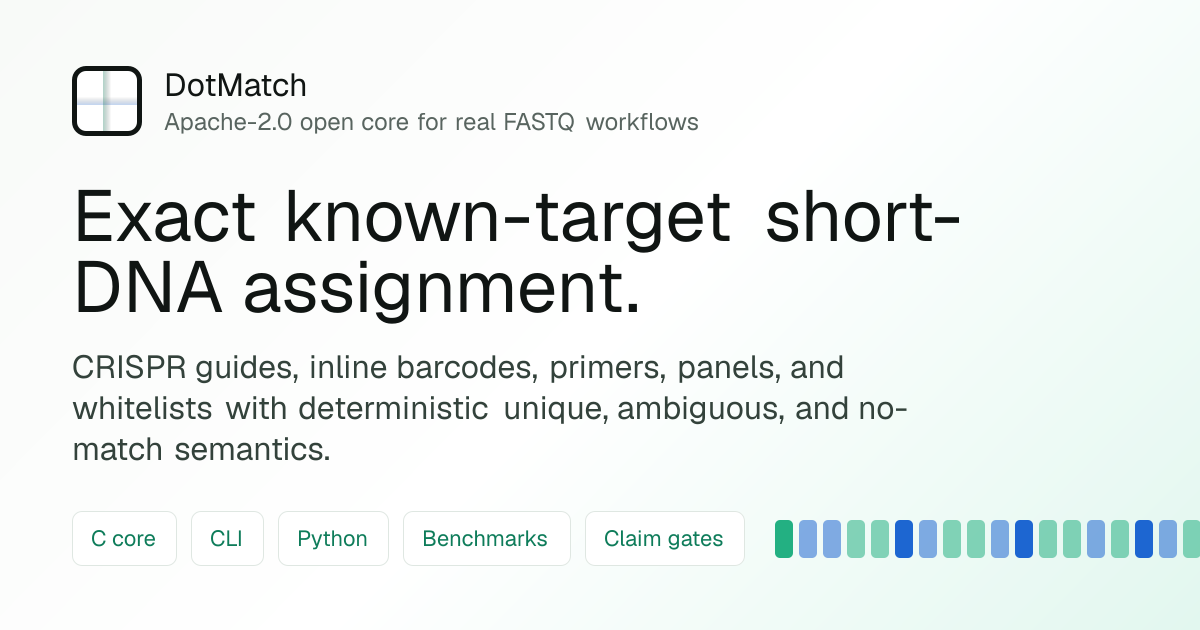
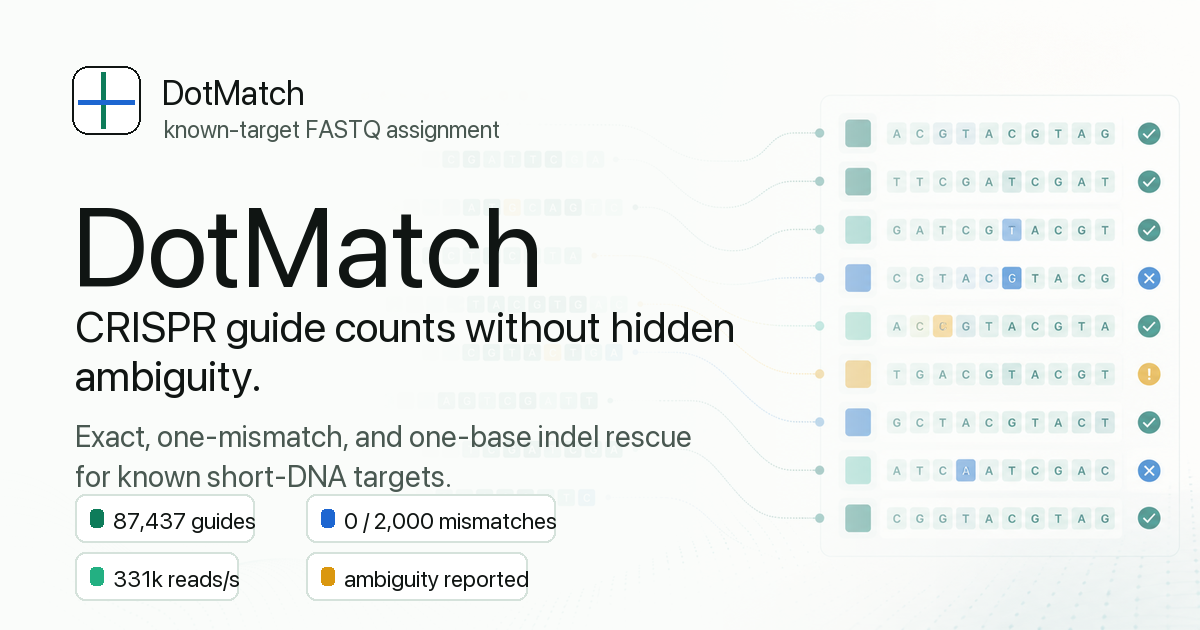
Improve Open Graph social cards

diff --git a/app/layout.tsx b/app/layout.tsx
@@ -4,12 +4,22 @@ import "./globals.css";
 const siteUrl = process.env.NEXT_PUBLIC_SITE_URL ?? "https://dnncha.github.io/dotmatch";
 const socialImageUrl = `${siteUrl}/dotmatch-og.png`;
 const twitterImageUrl = `${siteUrl}/dotmatch-twitter.png`;
+const socialImageAlt =
+  "DotMatch social preview showing CRISPR guide-count assignment into known DNA target rows";
 
 export const metadata: Metadata = {
   metadataBase: new URL(siteUrl),
-  title: "DotMatch - Exact Short-DNA Assignment",
+  applicationName: "DotMatch",
+  title: "DotMatch - Auditable CRISPR Guide Counting",
   description:
     "DotMatch turns known short-DNA FASTQs into CRISPR guide counts, barcode splits, and QC reports with explicit ambiguity handling.",
+  authors: [{ name: "DotMatch maintainers", url: "https://github.com/dnncha/dotmatch" }],
+  creator: "DotMatch maintainers",
+  publisher: "DotMatch",
+  category: "Bioinformatics software",
+  alternates: {
+    canonical: siteUrl
+  },
   keywords: [
     "bioinformatics",
     "computational biology",
@@ -20,23 +30,27 @@ export const metadata: Metadata = {
     "known-target assignment"
   ],
   openGraph: {
-    title: "DotMatch",
+    title: "DotMatch - Auditable CRISPR Guide Counting",
     description:
       "CRISPR guide counts, barcode splits, and QC reports for known short-DNA targets, with ambiguous reads reported instead of guessed.",
     type: "website",
+    siteName: "DotMatch",
+    locale: "en_US",
     url: siteUrl,
     images: [
       {
         url: socialImageUrl,
+        secureUrl: socialImageUrl,
         width: 1200,
         height: 630,
-        alt: "DotMatch exact known-target short-DNA assignment"
+        type: "image/png",
+        alt: socialImageAlt
       }
     ]
   },
   twitter: {
     card: "summary_large_image",
-    title: "DotMatch",
+    title: "DotMatch - Auditable CRISPR Guide Counting",
     description:
       "CRISPR guide counts, barcode splits, and QC reports for known short-DNA targets, with ambiguous reads reported instead of guessed.",
     images: [
@@ -44,7 +58,7 @@ export const metadata: Metadata = {
         url: twitterImageUrl,
         width: 1200,
         height: 630,
-        alt: "DotMatch exact known-target short-DNA assignment"
+        alt: socialImageAlt
       }
     ]
   }

diff --git a/scripts/render_social_images.py b/scripts/render_social_images.py
@@ -1,0 +1,162 @@
+#!/usr/bin/env python3
+from __future__ import annotations
+
+from pathlib import Path
+from textwrap import wrap
+
+from PIL import Image, ImageDraw, ImageFont
+
+
+ROOT = Path(__file__).resolve().parents[1]
+SOURCE = ROOT / "public" / "dotmatch-social-art.png"
+OUTPUTS = [
+    ROOT / "public" / "dotmatch-og.png",
+    ROOT / "public" / "dotmatch-twitter.png",
+]
+
+W, H = 1200, 630
+INK = (16, 21, 19)
+MUTED = (73, 88, 81)
+GREEN = (14, 124, 90)
+GREEN_2 = (35, 176, 130)
+BLUE = (29, 102, 209)
+AMBER = (218, 151, 15)
+LINE = (213, 226, 219)
+WHITE = (250, 252, 250)
+
+
+def font(size: int, *, weight: str = "regular") -> ImageFont.FreeTypeFont:
+    candidates = [
+        Path("/System/Library/Fonts/SFNS.ttf"),
+        Path("/System/Library/Fonts/HelveticaNeue.ttc"),
+        Path("/Library/Fonts/Arial.ttf"),
+    ]
+    bold_candidates = [
+        Path("/System/Library/Fonts/SFNS.ttf"),
+        Path("/System/Library/Fonts/HelveticaNeue.ttc"),
+        Path("/Library/Fonts/Arial Bold.ttf"),
+    ]
+    for path in bold_candidates if weight == "bold" else candidates:
+        if path.exists():
+            return ImageFont.truetype(str(path), size=size)
+    return ImageFont.load_default(size=size)
+
+
+def text_block(
+    draw: ImageDraw.ImageDraw,
+    xy: tuple[int, int],
+    text: str,
+    *,
+    font_obj: ImageFont.FreeTypeFont,
+    fill: tuple[int, int, int],
+    width: int,
+    line_gap: int,
+) -> int:
+    x, y = xy
+    avg_char = max(font_obj.getlength("abcdefghijklmnopqrstuvwxyz") / 26, 1)
+    chars = max(int(width / avg_char), 10)
+    for line in wrap(text, chars):
+        draw.text((x, y), line, font=font_obj, fill=fill)
+        y += font_obj.size + line_gap
+    return y
+
+
+def rounded_box(
+    draw: ImageDraw.ImageDraw,
+    xy: tuple[int, int, int, int],
+    *,
+    fill: tuple[int, int, int],
+    outline: tuple[int, int, int] | None = None,
+    radius: int = 14,
+) -> None:
+    draw.rounded_rectangle(xy, radius=radius, fill=fill, outline=outline, width=2 if outline else 1)
+
+
+def render_card() -> Image.Image:
+    source = Image.open(SOURCE).convert("RGB")
+    source_ratio = source.width / source.height
+    target_ratio = W / H
+    if source_ratio > target_ratio:
+        new_h = H
+        new_w = round(source.width * (H / source.height))
+    else:
+        new_w = W
+        new_h = round(source.height * (W / source.width))
+    bg = source.resize((new_w, new_h), Image.Resampling.LANCZOS)
+    left = max((new_w - W) // 2, 0)
+    top = max((new_h - H) // 2, 0)
+    card = bg.crop((left, top, left + W, top + H)).convert("RGBA")
+
+    veil = Image.new("RGBA", (W, H), (255, 255, 255, 0))
+    veil_draw = ImageDraw.Draw(veil)
+    for x in range(W):
+        if x < 650:
+            alpha = 242
+        elif x < 1000:
+            alpha = int(242 - ((x - 650) / 350) * 140)
+        else:
+            alpha = 86
+        veil_draw.line([(x, 0), (x, H)], fill=(WHITE[0], WHITE[1], WHITE[2], alpha))
+    card.alpha_composite(veil)
+
+    draw = ImageDraw.Draw(card)
+    title_font = font(112, weight="bold")
+    lede_font = font(43, weight="bold")
+    body_font = font(30)
+    small_font = font(25, weight="bold")
+    chip_font = font(23, weight="bold")
+
+    # Brand mark.
+    rounded_box(draw, (72, 66, 140, 134), fill=(255, 255, 255), outline=INK, radius=16)
+    draw.line((103, 72, 103, 128), fill=(14, 124, 90, 88), width=5)
+    draw.line((78, 102, 134, 102), fill=(29, 102, 209, 66), width=5)
+    draw.text((162, 72), "DotMatch", font=font(34, weight="bold"), fill=INK)
+    draw.text((164, 114), "known-target FASTQ assignment", font=font(24), fill=MUTED)
+
+    draw.text((72, 178), "DotMatch", font=title_font, fill=INK)
+    lede_bottom = text_block(
+        draw,
+        (75, 300),
+        "CRISPR guide counts without hidden ambiguity.",
+        font_obj=lede_font,
+        fill=INK,
+        width=700,
+        line_gap=6,
+    )
+    text_block(
+        draw,
+        (75, lede_bottom + 20),
+        "Exact, one-mismatch, and one-base indel rescue for known short-DNA targets.",
+        font_obj=body_font,
+        fill=MUTED,
+        width=690,
+        line_gap=10,
+    )
+
+    chips = [
+        ("87,437 guides", GREEN),
+        ("0 / 2,000 mismatches", BLUE),
+        ("331k reads/s", GREEN_2),
+        ("ambiguity reported", AMBER),
+    ]
+    chip_positions = [(75, 494), (306, 494), (75, 552), (306, 552)]
+    for (label, color), (x, y) in zip(chips, chip_positions):
+        text_w = int(draw.textlength(label, font=chip_font))
+        rounded_box(draw, (x, y, x + text_w + 36, y + 48), fill=(255, 255, 255), outline=LINE, radius=10)
+        draw.rounded_rectangle((x + 15, y + 15, x + 28, y + 33), radius=4, fill=color)
+        draw.text((x + 38, y + 12), label, font=chip_font, fill=INK)
+
+    return card.convert("RGB")
+
+
+def main() -> None:
+    if not SOURCE.exists():
+        raise SystemExit(f"Missing source art: {SOURCE}")
+    card = render_card()
+    for out in OUTPUTS:
+        card.save(out, "PNG", optimize=True)
+        print(out)
+
+
+if __name__ == "__main__":
+    main()